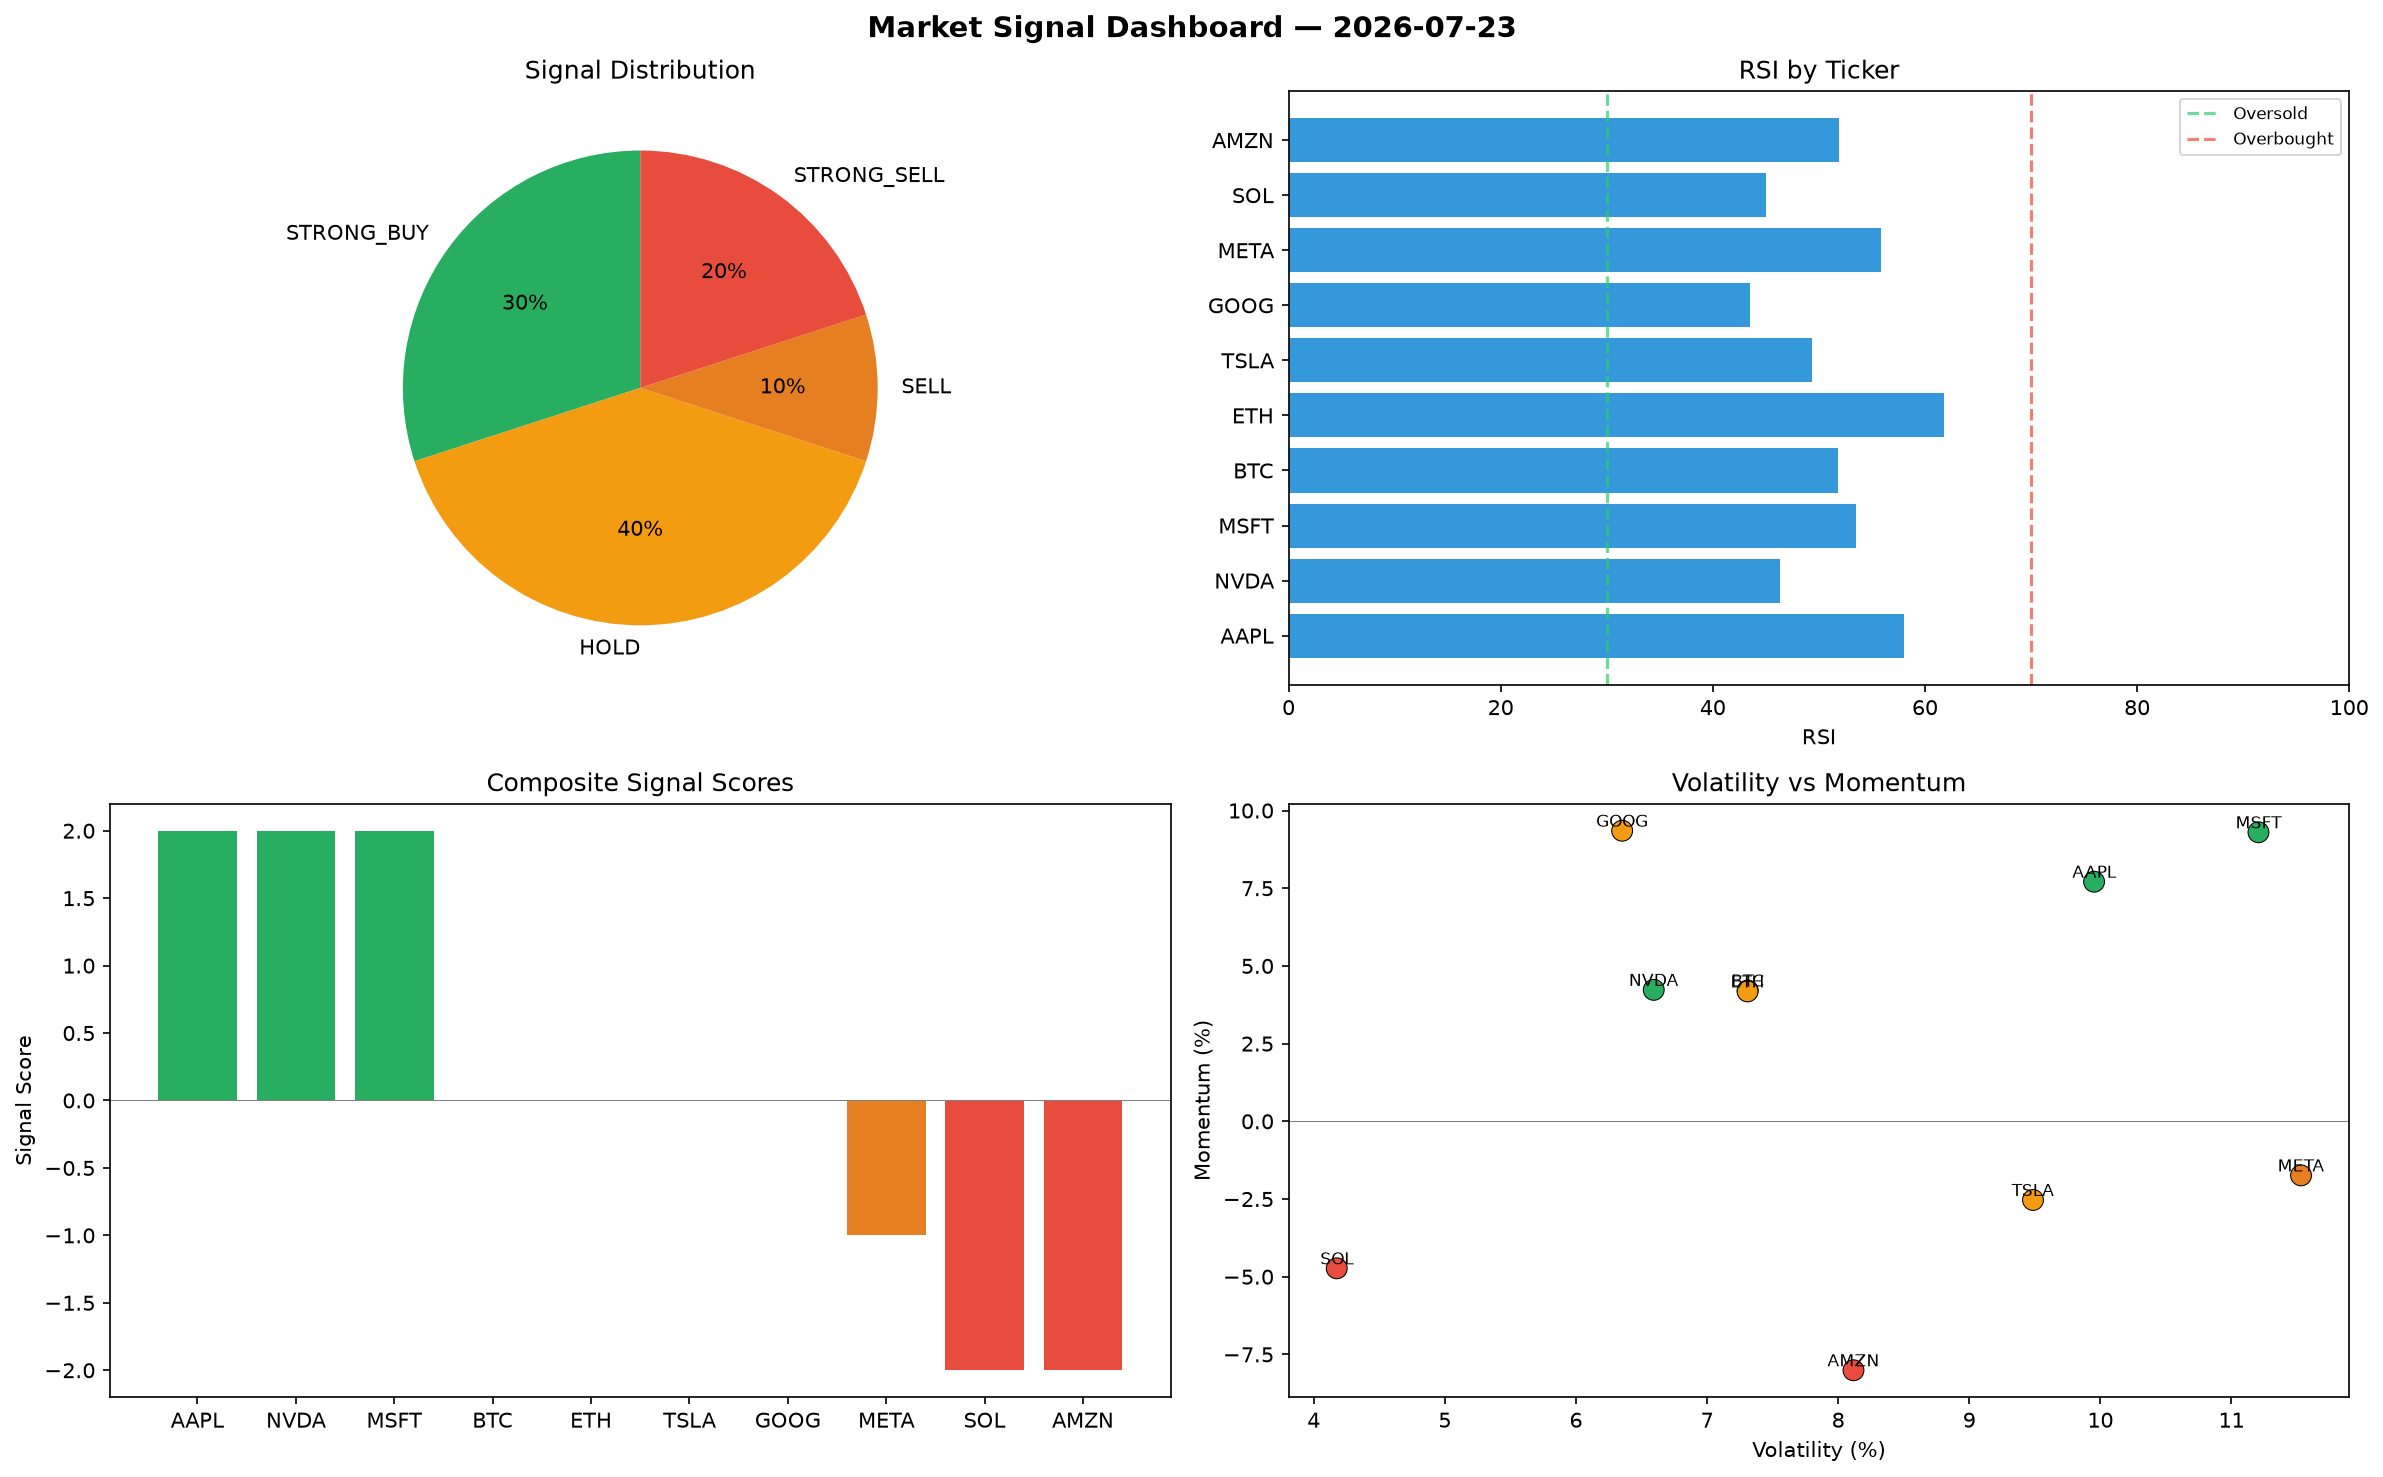
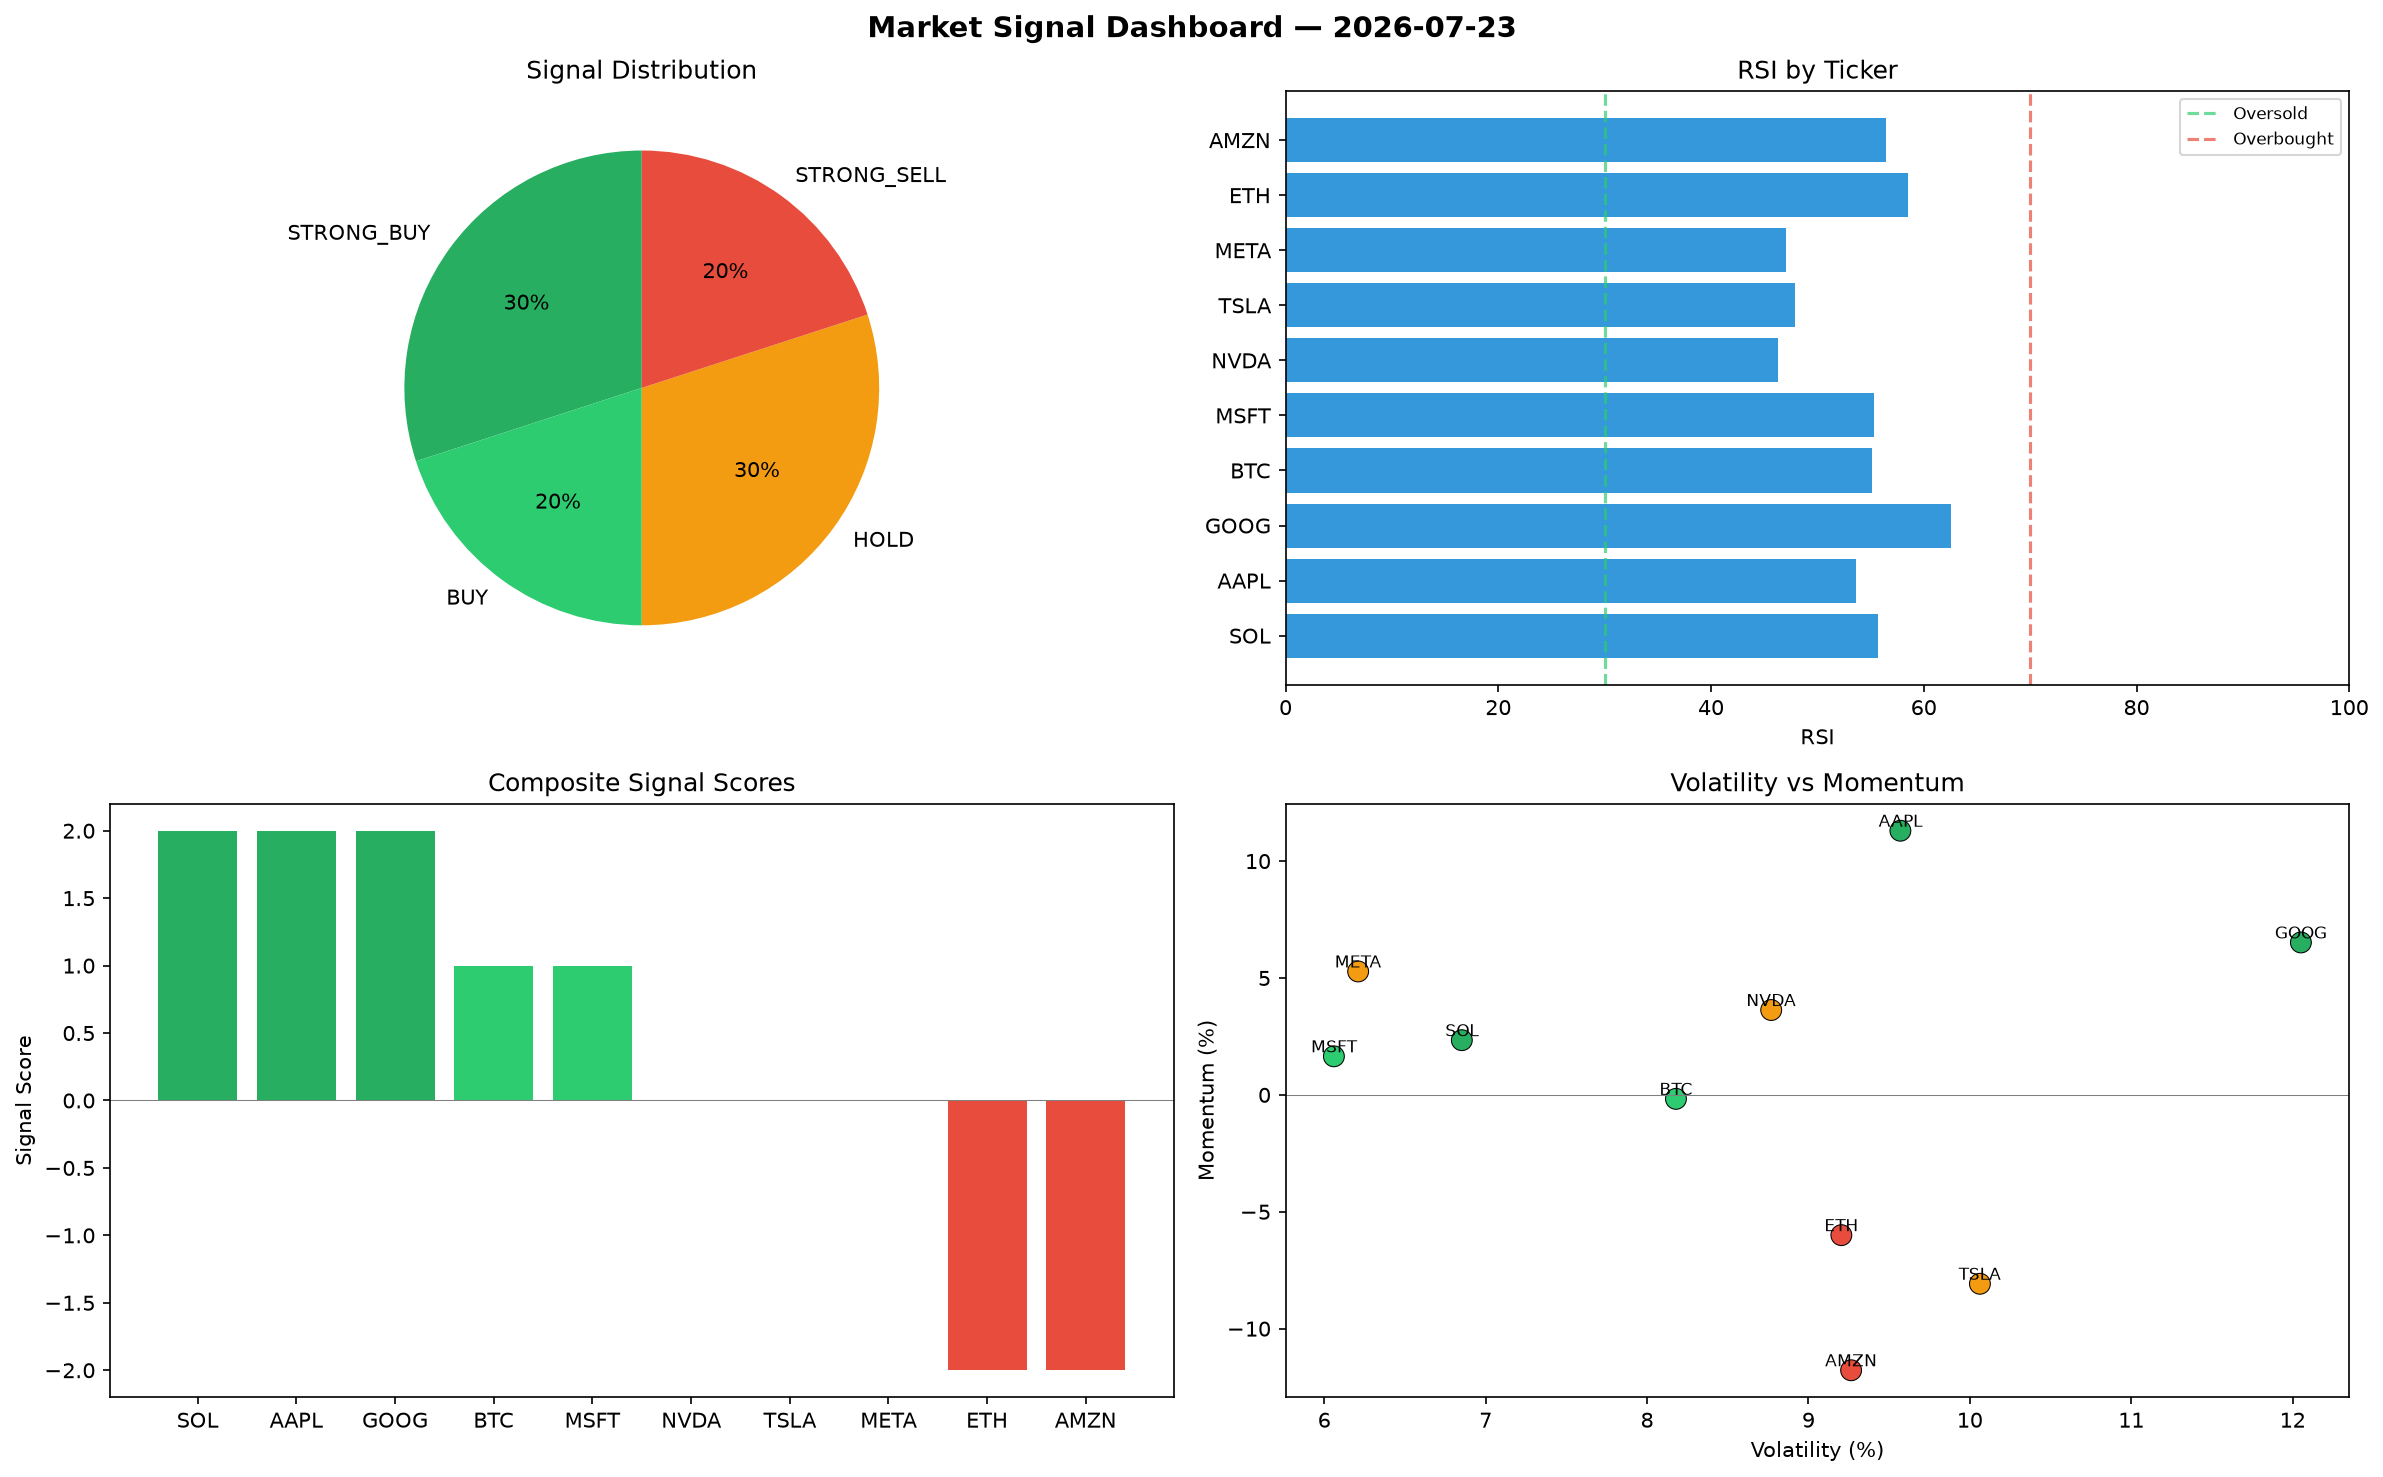
automated-bots: market signals 2026-07-23T16:07

diff --git a/logs/2026-07-23.md b/logs/2026-07-23.md
@@ -1,6 +1,6 @@
 # Market Signal Report — 2026-07-23
 
-**Run ID:** `5192af354a` | **Buy:** 3 | **Sell:** 3 | **Hold:** 4
+**Run ID:** `3cb399486d` | **Buy:** 5 | **Sell:** 2 | **Hold:** 3
 
 ![Dashboard](2026-07-23_dashboard.png)
 
@@ -8,28 +8,28 @@
 
 | Ticker | Price | Signal | Score | RSI | Momentum | Confidence |
 |--------|-------|--------|-------|-----|----------|------------|
-| AAPL | $861.58 | **STRONG_BUY** | 2 | 58.05 | 0.0771 | 0.5 |
-| NVDA | $2123.32 | **STRONG_BUY** | 2 | 46.31 | 0.0423 | 0.5 |
-| MSFT | $2142.62 | **STRONG_BUY** | 2 | 53.54 | 0.093 | 0.5 |
-| BTC | $2654.09 | **HOLD** | 0 | 51.82 | 0.0421 | 0.0 |
-| ETH | $4931.25 | **HOLD** | 0 | 61.78 | 0.0418 | 0.0 |
-| TSLA | $341.44 | **HOLD** | 0 | 49.39 | -0.0253 | 0.0 |
-| GOOG | $3883.55 | **HOLD** | 0 | 43.46 | 0.0935 | 0.0 |
-| META | $1811.76 | **SELL** | -1 | 55.83 | -0.0174 | 0.25 |
-| SOL | $937.5 | **STRONG_SELL** | -2 | 44.98 | -0.0473 | 0.5 |
-| AMZN | $2223.51 | **STRONG_SELL** | -2 | 51.85 | -0.0801 | 0.5 |
+| SOL | $3310.3 | **STRONG_BUY** | 2 | 55.68 | 0.0234 | 0.5 |
+| AAPL | $237.14 | **STRONG_BUY** | 2 | 53.67 | 0.113 | 0.5 |
+| GOOG | $902.24 | **STRONG_BUY** | 2 | 62.6 | 0.0652 | 0.5 |
+| BTC | $2434.65 | **BUY** | 1 | 55.15 | -0.0017 | 0.25 |
+| MSFT | $580.83 | **BUY** | 1 | 55.28 | 0.0165 | 0.25 |
+| NVDA | $4699.34 | **HOLD** | 0 | 46.29 | 0.0363 | 0.0 |
+| TSLA | $476.48 | **HOLD** | 0 | 47.89 | -0.0808 | 0.0 |
+| META | $13.17 | **HOLD** | 0 | 47.09 | 0.0528 | 0.0 |
+| ETH | $3252.17 | **STRONG_SELL** | -2 | 58.5 | -0.06 | 0.5 |
+| AMZN | $1163.9 | **STRONG_SELL** | -2 | 56.41 | -0.1178 | 0.5 |
 
 ## Delta vs Yesterday
 
 | Ticker | Today | Yesterday | Price Change | Signal Changed |
 |--------|-------|-----------|-------------|----------------|
-| AAPL | STRONG_BUY | HOLD | 📈 187.02% | ⚠ YES |
-| NVDA | STRONG_BUY | HOLD | 📉 -36.48% | ⚠ YES |
-| MSFT | STRONG_BUY | STRONG_BUY | 📈 97.97% | — |
-| BTC | HOLD | STRONG_BUY | 📉 -47.98% | ⚠ YES |
-| ETH | HOLD | STRONG_SELL | 📈 288.7% | ⚠ YES |
-| TSLA | HOLD | HOLD | 📉 -67.76% | — |
-| GOOG | HOLD | STRONG_BUY | 📉 -4.21% | ⚠ YES |
-| META | SELL | STRONG_BUY | 📈 3.59% | ⚠ YES |
-| SOL | STRONG_SELL | HOLD | 📉 -78.24% | ⚠ YES |
-| AMZN | STRONG_SELL | STRONG_BUY | 📈 94.93% | ⚠ YES |
+| SOL | STRONG_BUY | HOLD | 📉 -23.15% | ⚠ YES |
+| AAPL | STRONG_BUY | HOLD | 📉 -21.0% | ⚠ YES |
+| GOOG | STRONG_BUY | STRONG_BUY | 📉 -77.75% | — |
+| BTC | BUY | STRONG_BUY | 📉 -52.28% | ⚠ YES |
+| MSFT | BUY | STRONG_BUY | 📉 -46.33% | ⚠ YES |
+| NVDA | HOLD | HOLD | 📈 40.59% | — |
+| TSLA | HOLD | HOLD | 📉 -55.0% | — |
+| META | HOLD | STRONG_BUY | 📉 -99.25% | ⚠ YES |
+| ETH | STRONG_SELL | STRONG_SELL | 📈 156.35% | — |
+| AMZN | STRONG_SELL | STRONG_BUY | 📈 2.04% | ⚠ YES |
